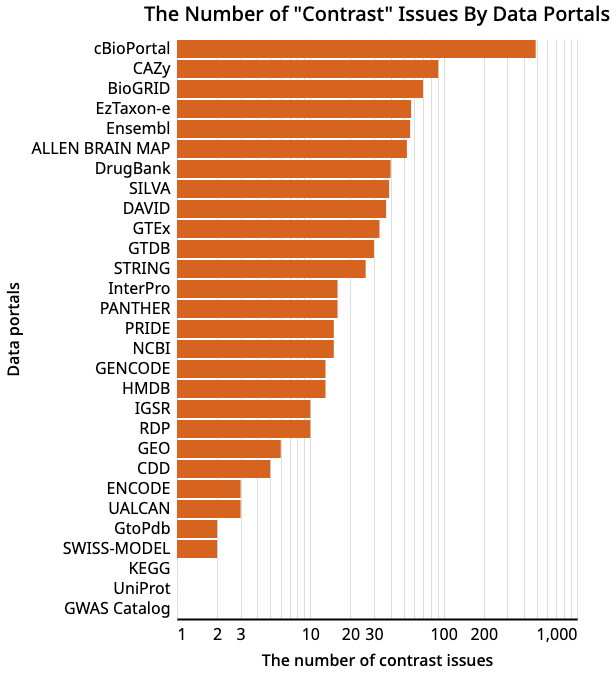
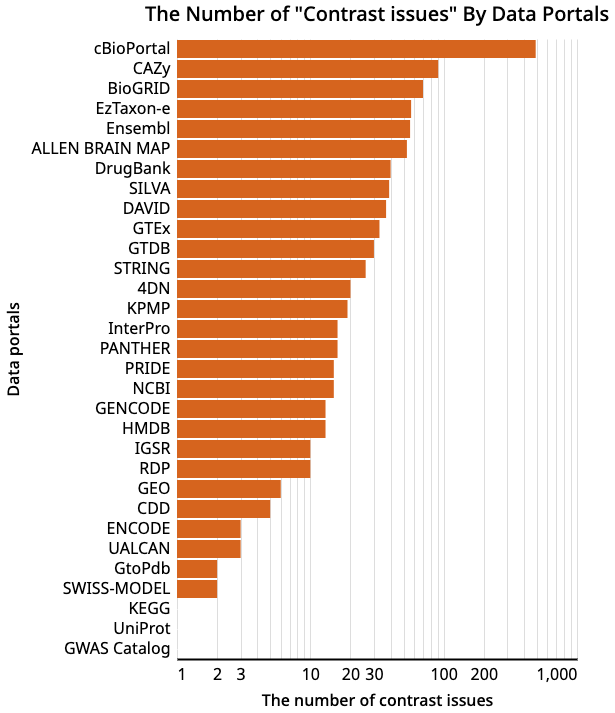
chore: add manually selected sites

Changed region(s): [[0.0309, 0.0, 0.9886, 0.9985], [0.0, 0.4056, 0.0309, 0.5617]]

diff --git a/visualize-reports.py b/visualize-reports.py
@@ -86,7 +86,7 @@ plot = alt.Chart(details).mark_rect(
         scale=alt.Scale(type='log', domain=[1, 100], clamp=True),   
         legend=alt.Legend(gradientLength=300)
     ),
-    row=alt.Row('type:N', header=alt.Header(labelOrient='left', title=None))
+    row=alt.Row('type:N', header=alt.Header(labelOrient='left', title=None), sort=['error', 'contrast', 'alert'])
     # row=alt.Row('name:N', title=None, header=alt.Header(
     #     labelOrient='left', labelAngle=0, labelAnchor='middle', labelAlign='left'
     # ), spacing=0)

diff --git a/save-wave-report.py b/save-wave-report.py
@@ -13,6 +13,11 @@ dbs = pd.DataFrame.from_dict(dbs.data.to_dict(), orient='index')
 dbs = dbs[0:FILTER_TOP]
 dbs
 # %%
+manually_picked = pd.read_json('./manually-added-data-portals.json')
+manually_picked
+dbs = dbs.append(manually_picked)
+dbs
+# %%
 """
 Load existing reports
 """
